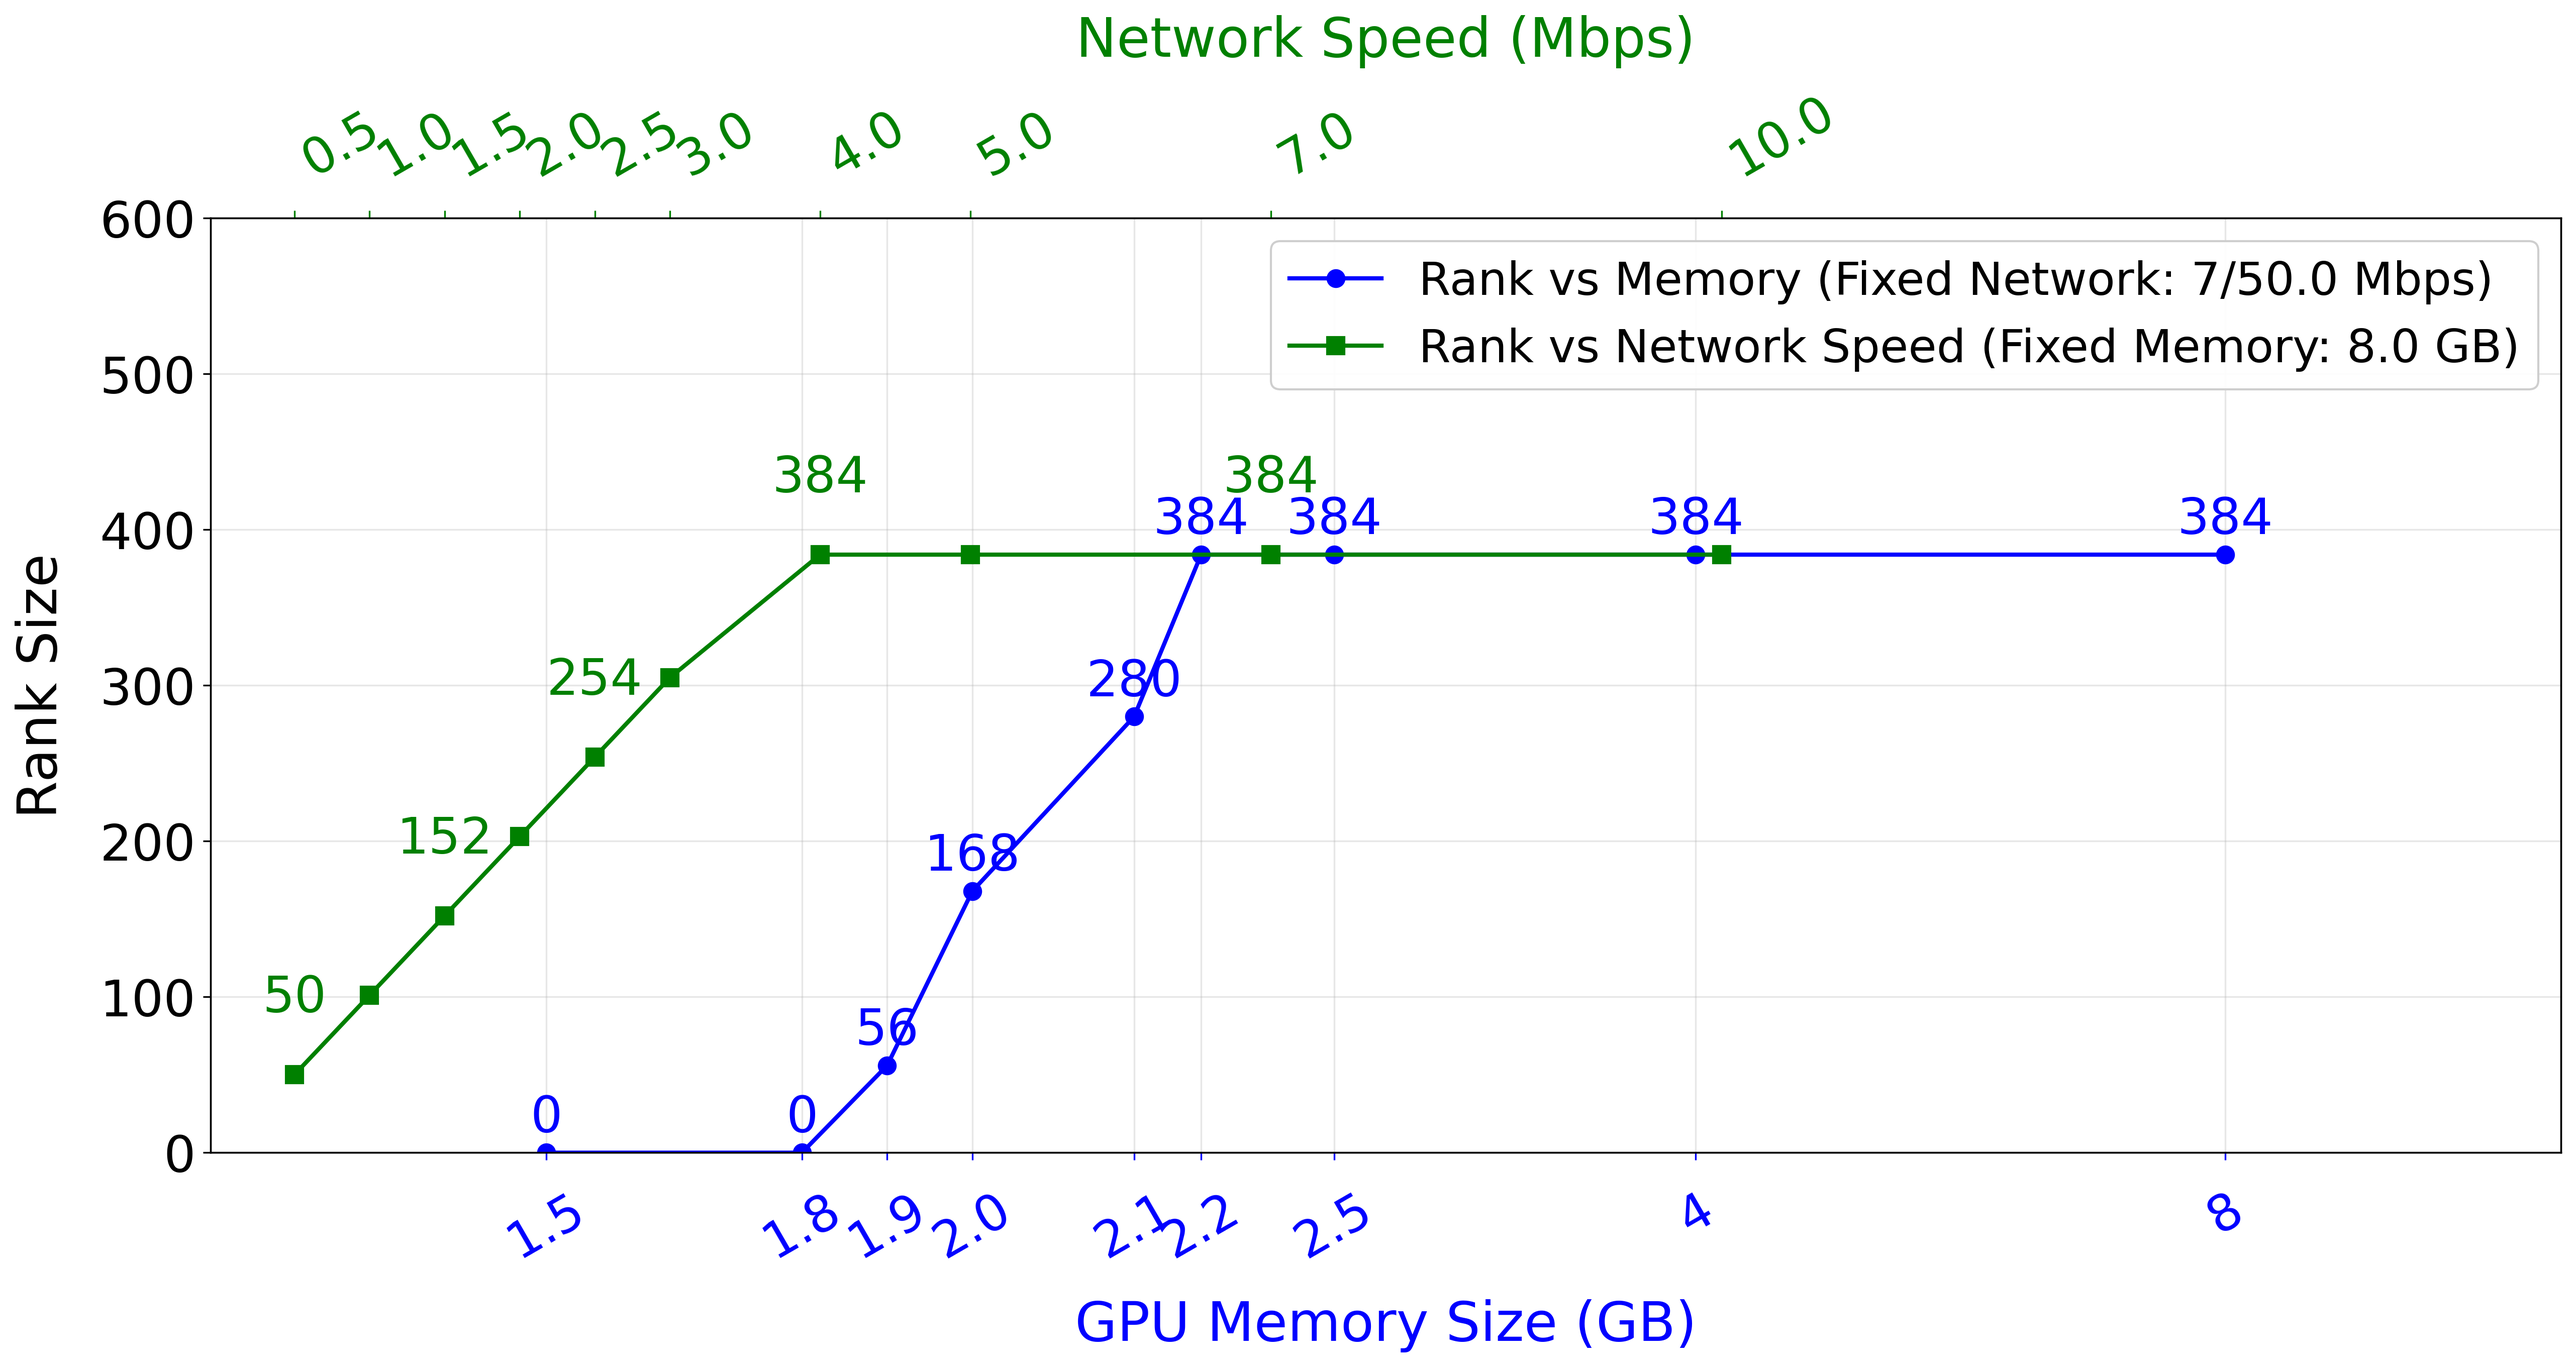
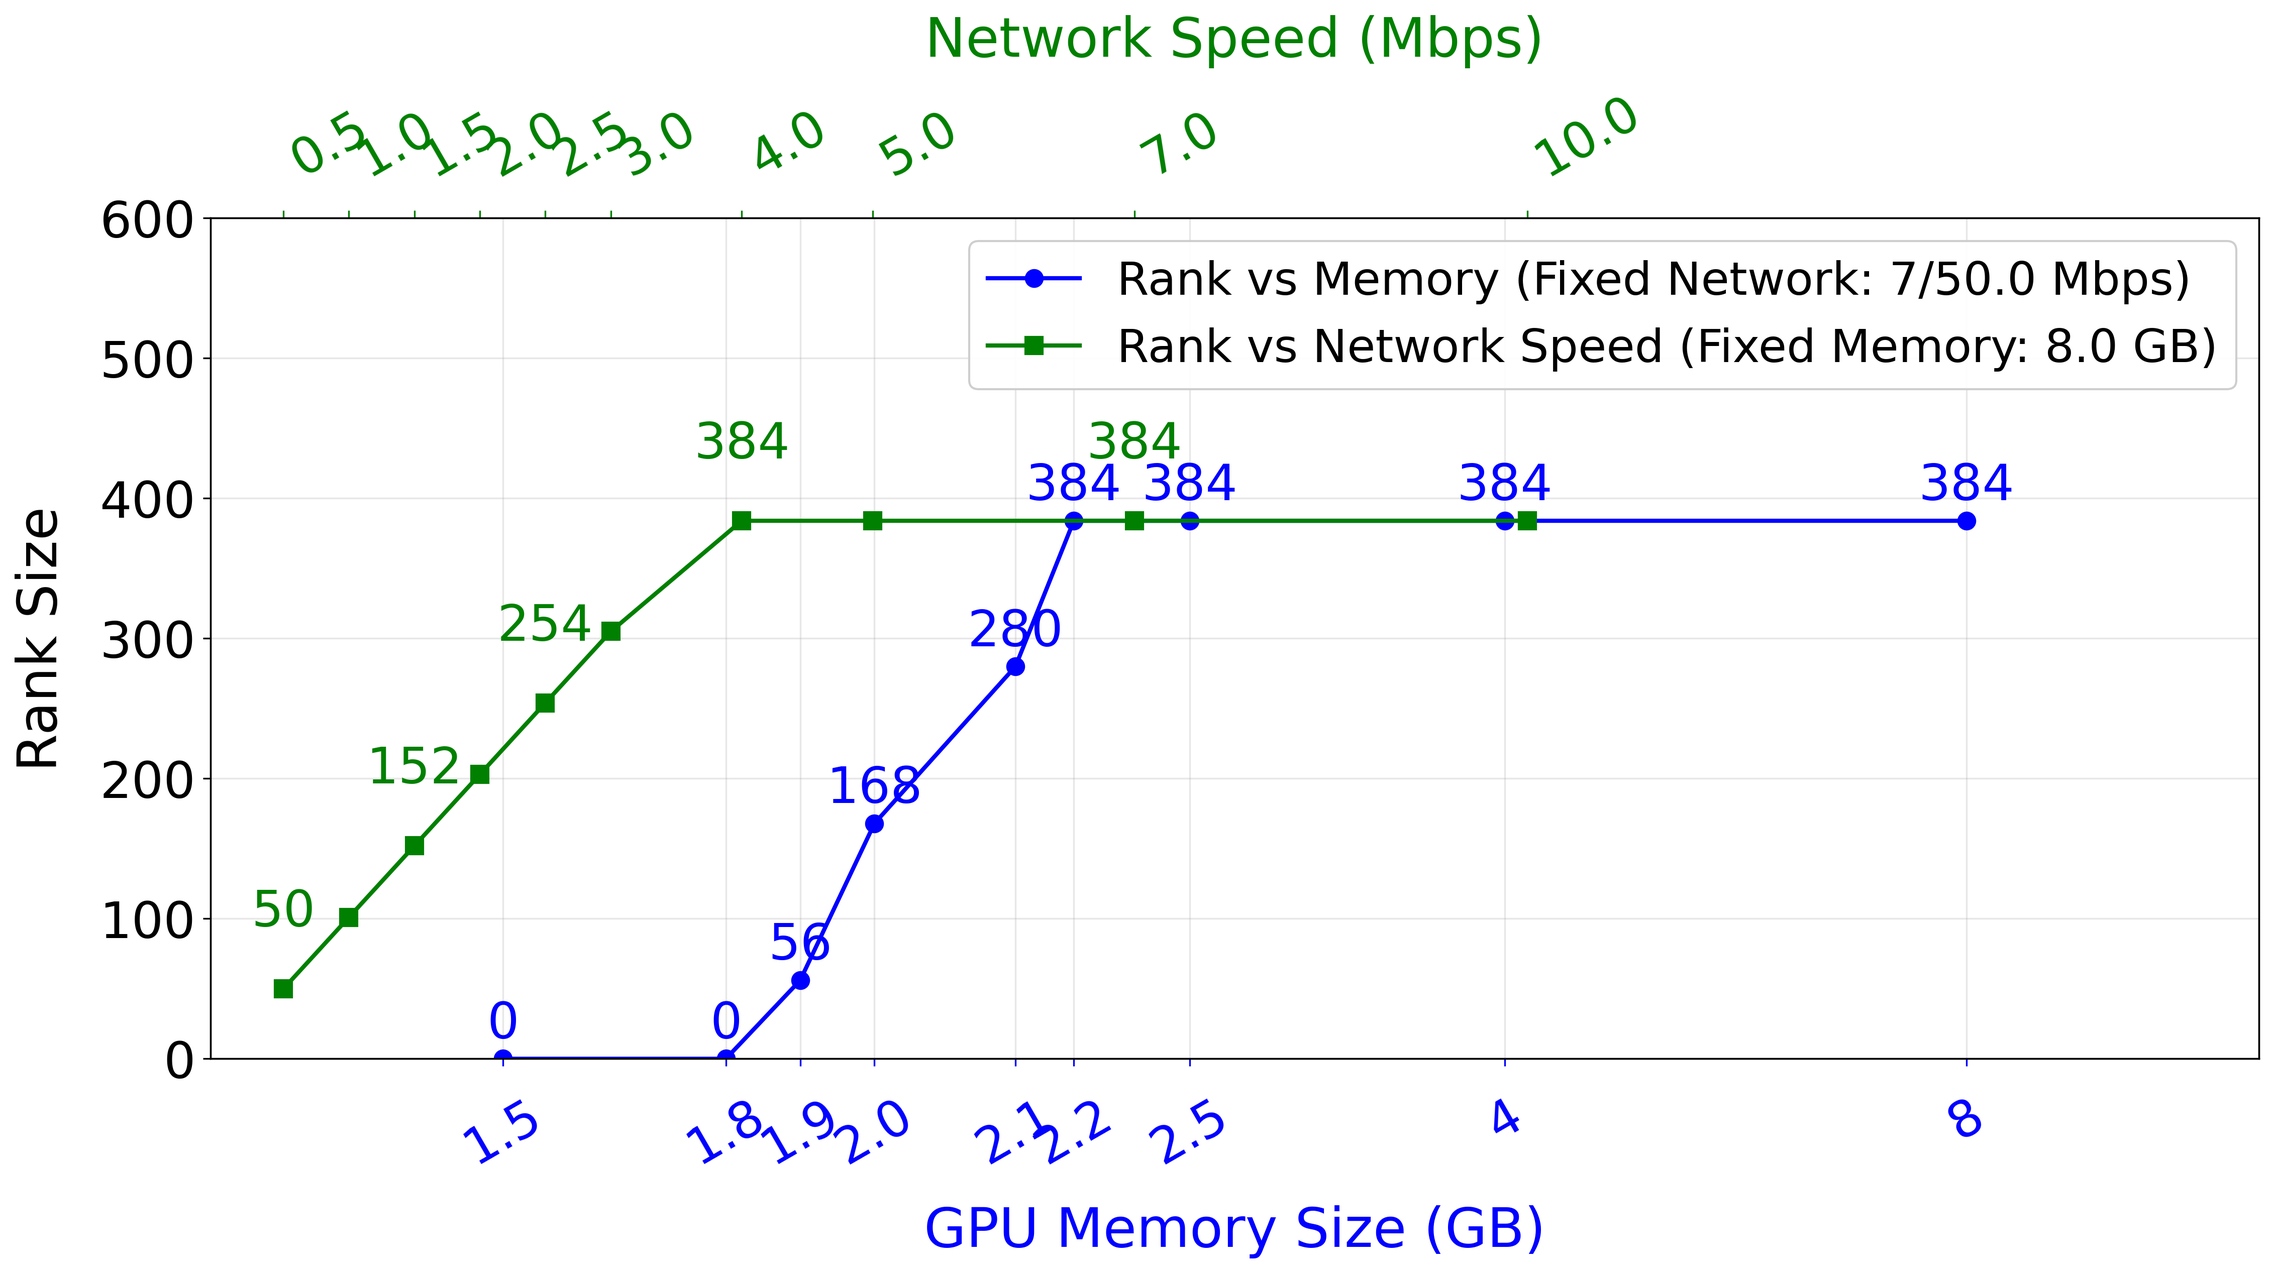
make figure smaller

diff --git a/tests/test_estimator.py b/tests/test_estimator.py
@@ -717,7 +717,7 @@ class TestRankEstimatorVisualization(unittest.TestCase):
             rank_values_network.append(rank_budgets[0])
         
         # Create a single figure with dual X-axes - even larger size for better readability
-        fig, ax = plt.subplots(figsize=(18, 10))
+        fig, ax = plt.subplots(figsize=(16, 9))
         
         # Use a piecewise transformation to spread out small values significantly
         # This makes small differences much more readable while preserving the uneven nature
